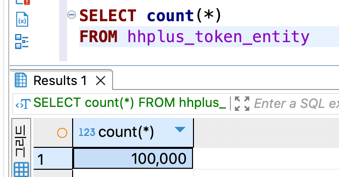
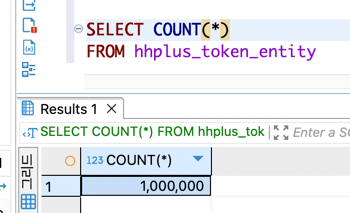
update: step-15 보고서 수정

Changed region(s): [[0.0, 0.0, 1.0, 1.0], [0.177, 0.0282, 0.9145, 0.2825]]

diff --git a/report/step-15.md b/report/step-15.md
@@ -1,5 +1,51 @@
-### 서비스에서 사용하고 있는 조회 쿼리
+### 테스트 데이터 마이그레이션 코드
 
+```typescript
+// 토큰 데이터
+(async () => {
+  await NestFactory.create(AppModule, {});
+
+  const dataSource = getDataSource();
+
+  const repo = dataSource.getRepository(TokenEntity);
+
+  const date = new Date();
+  for (let i = 1; i <= 1_000_000; i++) {
+    await repo.insert({
+      userId: i,
+      tokenValue: v4(),
+      issuedDate: date,
+      expiredDate: date,
+      status: 'WAIT',
+    });
+  }
+
+  process.exit(0);
+})();
+```
+
+```typescript
+// 콘서트 스케쥴 데이터
+(async () => {
+  await NestFactory.create(AppModule, {});
+
+  const dataSource = getDataSource();
+
+  const repo = dataSource.getRepository(ConcertScheduleEntity);
+
+  for (let i = 1; i <= 1_000_000; i++) {
+    const concertId = (i % 1000) + 1;
+    await repo.insert({
+      concertId: concertId,
+      theDateString: '2024-' + i + '-' + concertId,
+    });
+  }
+
+  process.exit(0);
+})();
+```
+
+### 서비스에서 사용하고 있는 조회 쿼리
 #### TokenRepository
 ```typescript
 const token = await this.tokenRepository
@@ -26,58 +72,59 @@ export class TokenEntity {
 }
 ```
 
-**TokenEntity 10만개 데이터로 테스트**
+**TokenEntity 100만개 데이터로 테스트**
 
 ![01.png](../img/step-15/01.png)
 ![01-1.png](../img/step-15/01-1.png)
 
 ### userId에 Index 적용 전
 
-![02.png](../img/step-15/02.png)
+쿼리
+```sql
+EXPLAIN ANALYZE
+SELECT *
+FROM hhplus_token_entity 
+WHERE user_id = 578291 
+```
 
-쿼리 실행 시간 : 평균 약 0.002s
+결과
+```text
+-> Filter: (hhplus_token_entity.user_id = 578291)  (cost=101003 rows=96040) (actual time=239..366 rows=1 loops=1)
+    -> Table scan on hhplus_token_entity  (cost=101003 rows=960395) (actual time=0.0757..339 rows=1e+6 loops=1)=
+```
 
-실행 계획 분석
-
-| 필드              | 값                   | 설명                                   |
-|-----------------|---------------------|--------------------------------------|
-| `id`            | 1                   | 단순 쿼리(단일 SELECT)                     |
-| `select_type`   | SIMPLE              | 서브쿼리나 조인이 없는 단순 쿼리                   |
-| `table`         | hhplus_token_entity | 조회하는 테이블                             |
-| `partitions`    | null                | 파티션 사용 안 함                           |
-| `type`          | ALL                 | 전체 테이블 스캔 (Full Table Scan), 성능 비효율적 |
-| `possible_keys` | null                | 사용할 수 있는 인덱스 없음 (문제 발생)              |
-| `key`           | null                | 사용된 인덱스 없음 (문제 발생)                   |
-| `key_len`       | null                | 해당 없음                                |
-| `ref`           | null                | 해당 없음                                |
-| `rows`          | 99,645              | 쿼리가 거의 모든 행을 스캔 (비효율적)               |
-| `filtered`      | 10.0                | 10%만 실제로 필터링 → 불필요한 행 검색 많음          |
-| `Extra`         | Using where         | 인덱스 없이 WHERE 절로 필터링                  |
-
+쿼리 실행 시간 : 336ms
 
 ### userId에 Index 적용 후
 
-![03.png](../img/step-15/03.png)
+쿼리
+```sql
+EXPLAIN ANALYZE
+SELECT *
+FROM hhplus_token_entity 
+WHERE user_id = 578291 
+```
 
-쿼리 실행 시간 : 평균 약 0.057s
+결과
+```text
+-> Index lookup on hhplus_token_entity using token_entity_user_id (user_id = 578291)  (cost=0.746 rows=1) (actual time=0.0621..0.0638 rows=1 loops=1)
+```
 
-실행 계획 분석
+쿼리 실행 시간 : 0.0017 ms 
 
-| 필드              | 값                    | 설명                               |
-|-----------------|----------------------|----------------------------------|
-| `id`            | 1                    | 단순 쿼리(단일 SELECT)                 |
-| `select_type`   | SIMPLE               | 서브쿼리나 조인이 없는 단순 쿼리               |
-| `table`         | hhplus_token_entity  | 조회하는 테이블                         |
-| `partitions`    | null                 | 파티션 사용 안 함                       |
-| `type`          | ref                  | 인덱스를 사용한 조회, 성능 최적화됨             |
-| `possible_keys` | token_entity_user_id | 사용할 수 있는 인덱스 존재                  |
-| `key`           | token_entity_user_id | 사용된 인덱스 (`user_id` 인덱스 활용)       |
-| `key_len`       | 4                    | 인덱스 검색에 사용된 키 길이 (4 바이트, INT 타입) |
-| `ref`           | const                | `user_id = 56789` 조건이 상수로 사용됨    |
-| `rows`          | 1                    | 조회되는 예상 행 수가 1개로 매우 적음 → 최적화됨    |
-| `filtered`      | 100.0                | 필터링 효율이 높음, 모든 데이터가 유효           |
-| `Extra`         | null                 | 추가적인 작업 없음, 최적화된 실행              |
 
+#### 결과 정리
+
+|           | 인덱스 적용 전        | 인덱스 적용 후               |
+|-----------|-----------------|------------------------|
+| 비용        | 101003          | 0.746                  |
+| 예상 반환 행 수 | 96040           | 1                      |
+| 실제 실행 시간	 | 366 ms (0.366초) | 0.0638 ms (0.000064초)  |
+| 쿼리 방식     | Full Table Scan | 	Index Lookup (B-Tree) | 
+
+- 실행 시간이 366ms → 0.0638ms (약 5,700배 향상)
+- 비용이 101,003 → 0.746로 대폭 감소
+- 불필요한 행 스캔 없이 즉시 user_id = 578291 값을 찾아서 반환
 
 
 
@@ -109,60 +156,56 @@ export class ConcertScheduleEntity {
 }
 ```
 
-10만건 데이터에 대해 테스트
+100만건 데이터에 대해 테스트
 
 ![04.png](../img/step-15/04.png)
 ![05.png](../img/step-15/05.png)
 
 ### (concertId, theDateString) 복합 Index 적용 전
 
-쿼리 실행 시간 : 평균 약 0.059s
+쿼리
+```sql
+EXPLAIN ANALYZE
+SELECT *
+FROM hhplus_concert_schedule_entity 
+WHERE concert_id = 967 and the_date_string = "2024-500966-967"
+```
 
-실행 계획 분석
-
-![06.png](../img/step-15/06.png)
-
-
-| 필드              | 값                              | 설명                                   |
-|-----------------|--------------------------------|--------------------------------------|
-| `id`            | 1                              | 단순 쿼리(단일 SELECT)                     |
-| `select_type`   | SIMPLE                         | 서브쿼리나 조인이 없는 단순 쿼리                   |
-| `table`         | hhplus_concert_schedule_entity | 조회하는 테이블                             |
-| `partitions`    | null                           | 파티션 사용 안 함                           |
-| `type`          | ALL                            | 전체 테이블 스캔 (Full Table Scan), 성능 비효율적 |
-| `possible_keys` | null                           | 사용할 수 있는 인덱스 없음 (문제 발생)              |
-| `key`           | null                           | 사용된 인덱스 없음 (문제 발생)                   |
-| `key_len`       | null                           | 해당 없음                                |
-| `ref`           | null                           | 해당 없음                                |
-| `rows`          | 99,891                         | 쿼리가 거의 모든 행을 스캔 (비효율적)               |
-| `filtered`      | 1.0                            | 매우 낮은 필터링 효율 → 불필요한 행 검색 많음          |
-| `Extra`         | Using where                    | 인덱스 없이 WHERE 절로 필터링                  |
+결과
+```text
+-> Filter: (hhplus_concert_schedule_entity.the_date_string = '2024-500966-967')  (cost=627 rows=100) (actual time=4.93..81.4 rows=1 loops=1)
+    -> Index lookup on hhplus_concert_schedule_entity using concert_schedule_concert_id (concert_id = 967)  (cost=627 rows=1000) (actual time=0.558..81.1 rows=1000 loops=1)
+```
 
 
 
 ### (concertId, theDateString) 복합 Index 적용 후
 
-쿼리 실행 시간 : 평균 약 0.002s
+쿼리
+```sql
+EXPLAIN ANALYZE
+SELECT *
+FROM hhplus_concert_schedule_entity 
+WHERE concert_id = 967 and the_date_string = "2024-500966-967"
+```
 
-실행 계획 분석
+결과
+```text
+-> Index lookup on hhplus_concert_schedule_entity using concert_schedule_index (concert_id = 967, the_date_string = '2024-500966-967')  (cost=0.717 rows=1) (actual time=0.262..0.265 rows=1 loops=1)
+```
 
-![07.png](../img/step-15/07.png)
 
-| 필드              | 값                                                  | 설명                                 |
-|-----------------|----------------------------------------------------|------------------------------------|
-| `id`            | 1                                                  | 단순 쿼리(단일 SELECT)                   |
-| `select_type`   | SIMPLE                                             | 서브쿼리나 조인이 없는 단순 쿼리                 |
-| `table`         | hhplus_concert_schedule_entity                     | 조회하는 테이블                           |
-| `partitions`    | null                                               | 파티션 사용 안 함                         |
-| `type`          | ref                                                | 인덱스를 사용한 조회, 성능 최적화됨               |
-| `possible_keys` | concert_schedule_concert_id,concert_schedule_index | 사용할 수 있는 인덱스 존재                    |
-| `key`           | concert_schedule_index                             | 사용된 인덱스 (`concert_schedule_index`) |
-| `key_len`       | 1026                                               | 사용된 키 길이 (VARCHAR 포함)              |
-| `ref`           | const,const                                        | 두 개의 상수 값을 이용한 조회                  |
-| `rows`          | 1                                                  | 조회되는 예상 행 수가 1개로 매우 적음 → 최적화됨      |
-| `filtered`      | 100.0                                              | 필터링 효율이 높음, 모든 데이터가 유효             |
-| `Extra`         | null                                               | 추가적인 작업 없음, 최적화된 실행                |
+#### 결과 정리
 
+|           | 인덱스 적용 전              | 인덱스 적용 후             |
+|-----------|-----------------------|----------------------|
+| 비용        | 627                   | 0.717                |
+| 예상 반환 행 수 | 100                   | 1                    |
+| 실제 실행 시간	 | 81.4 ms (0.0814초)     | 0.265 ms (0.000265초) |
+| 쿼리 방식     | Index Lookup 후 추가 필터링 | 	Index Lookup        | 
+
+- 실행 시간이 81.4ms → 0.265ms (약 307배 향상)
+- 비용이 627 → 1로 감소
 
 
 
